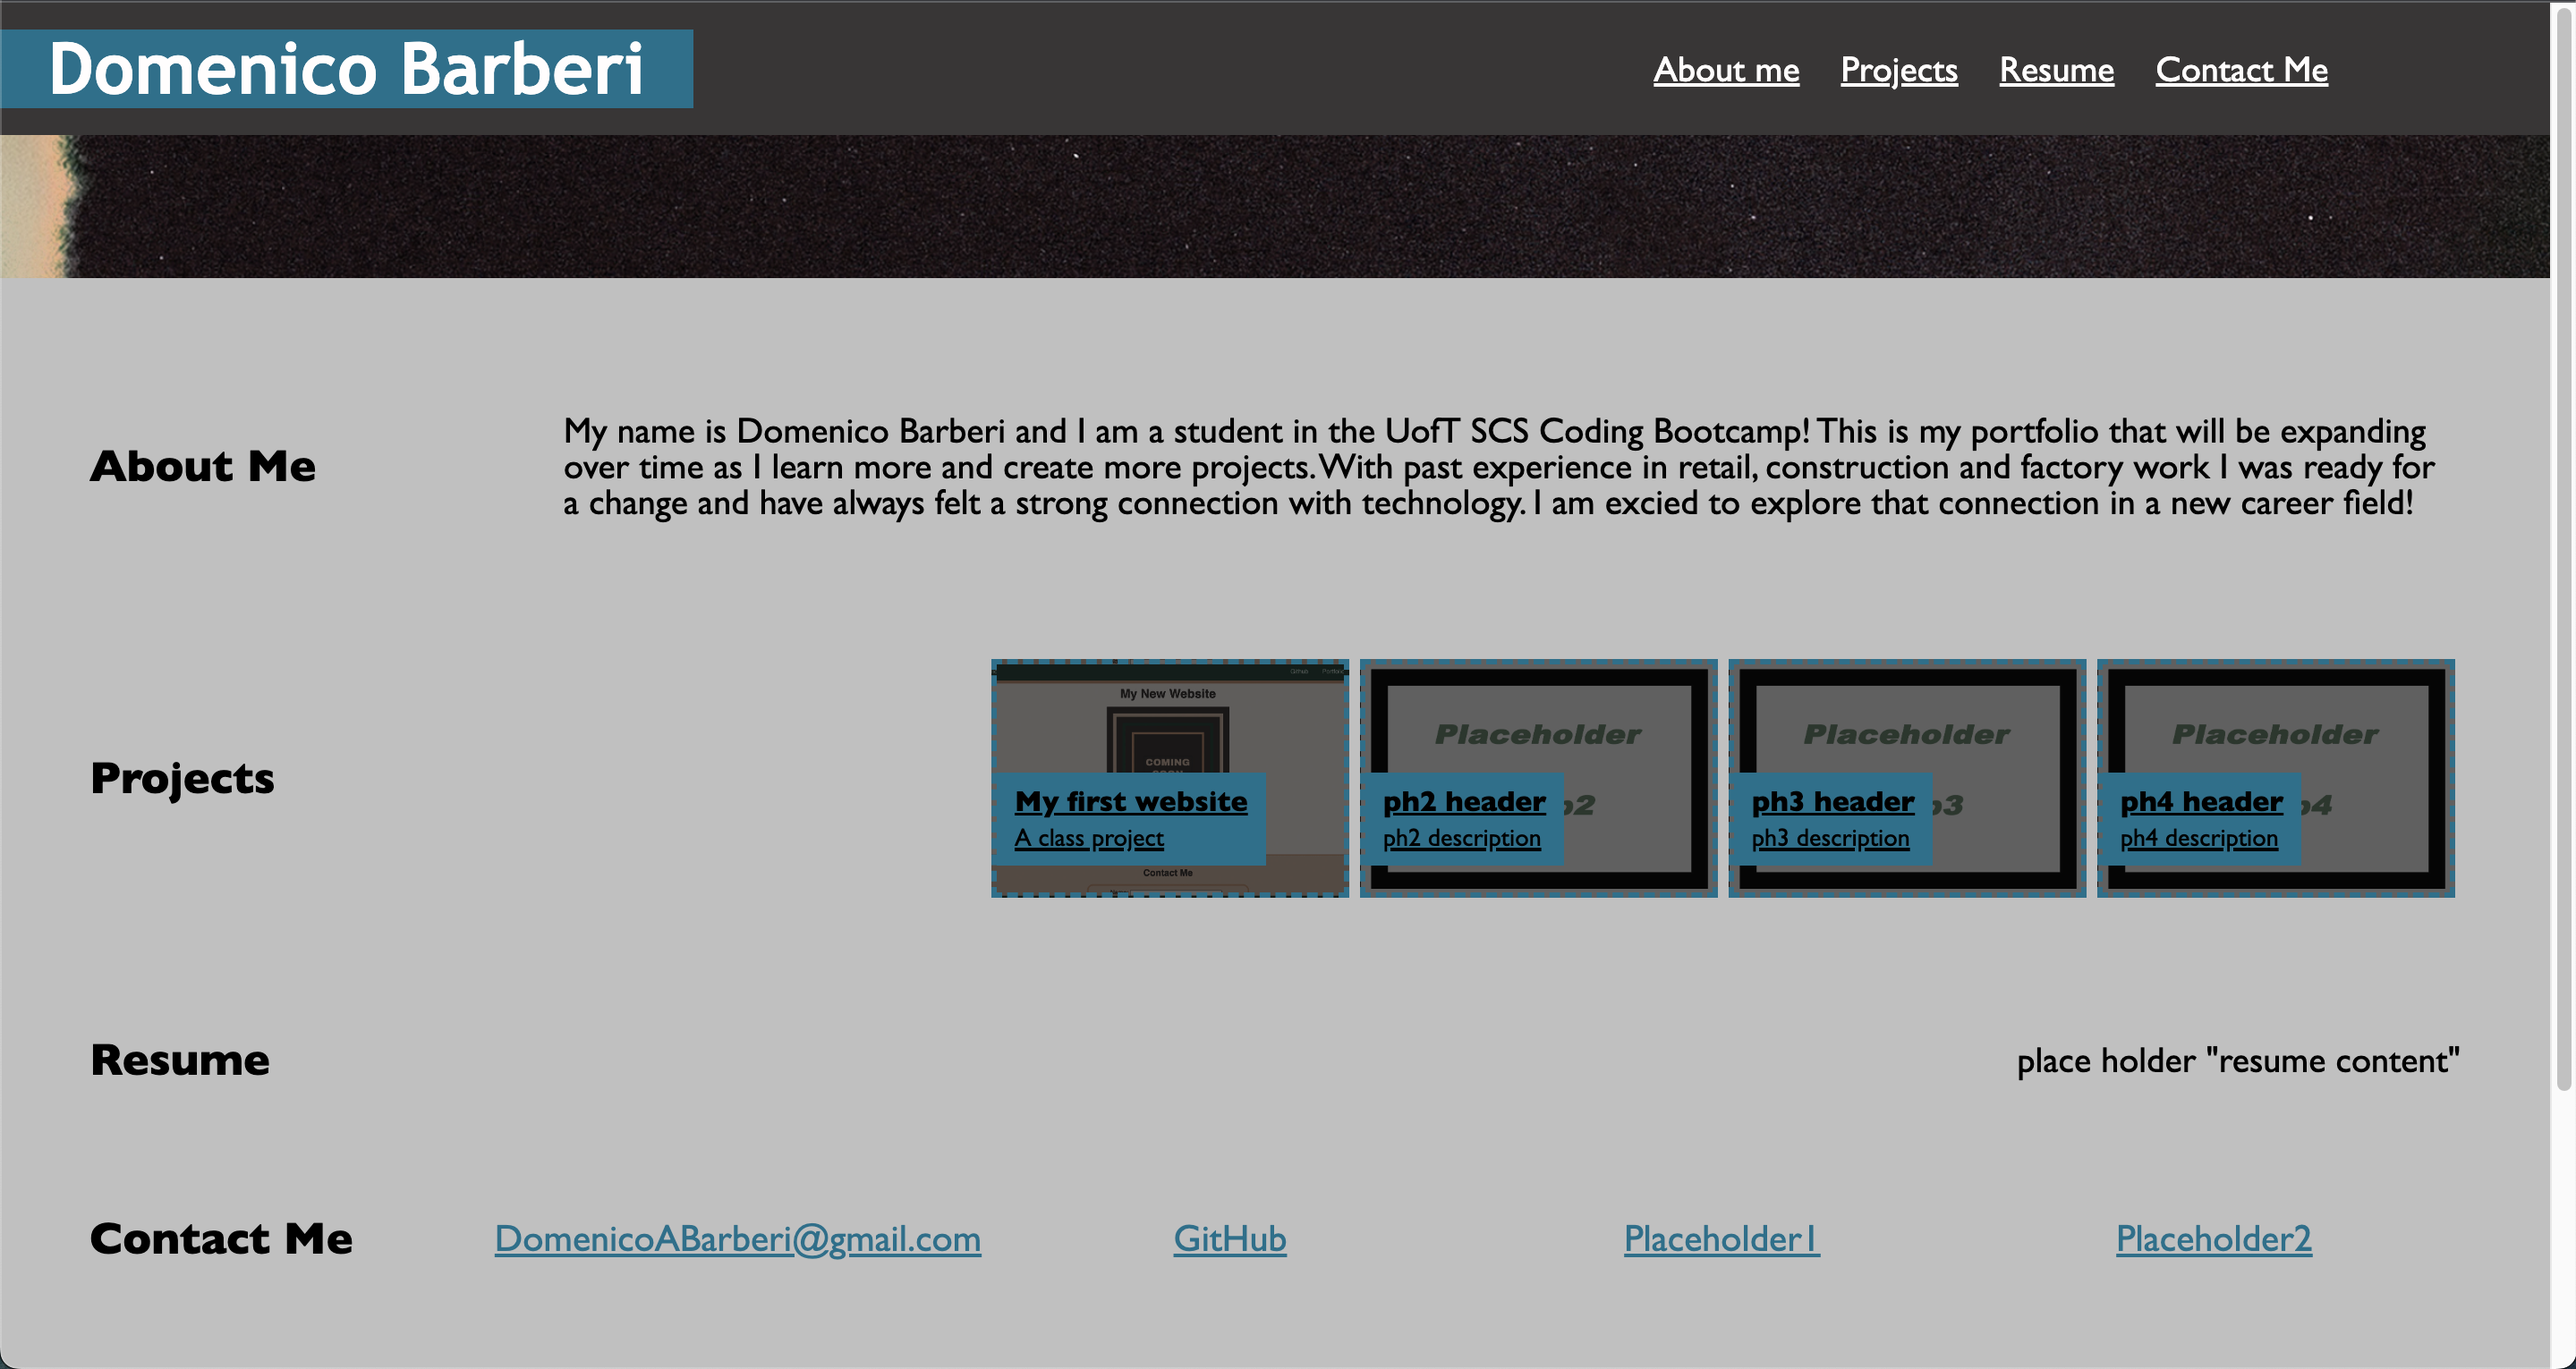
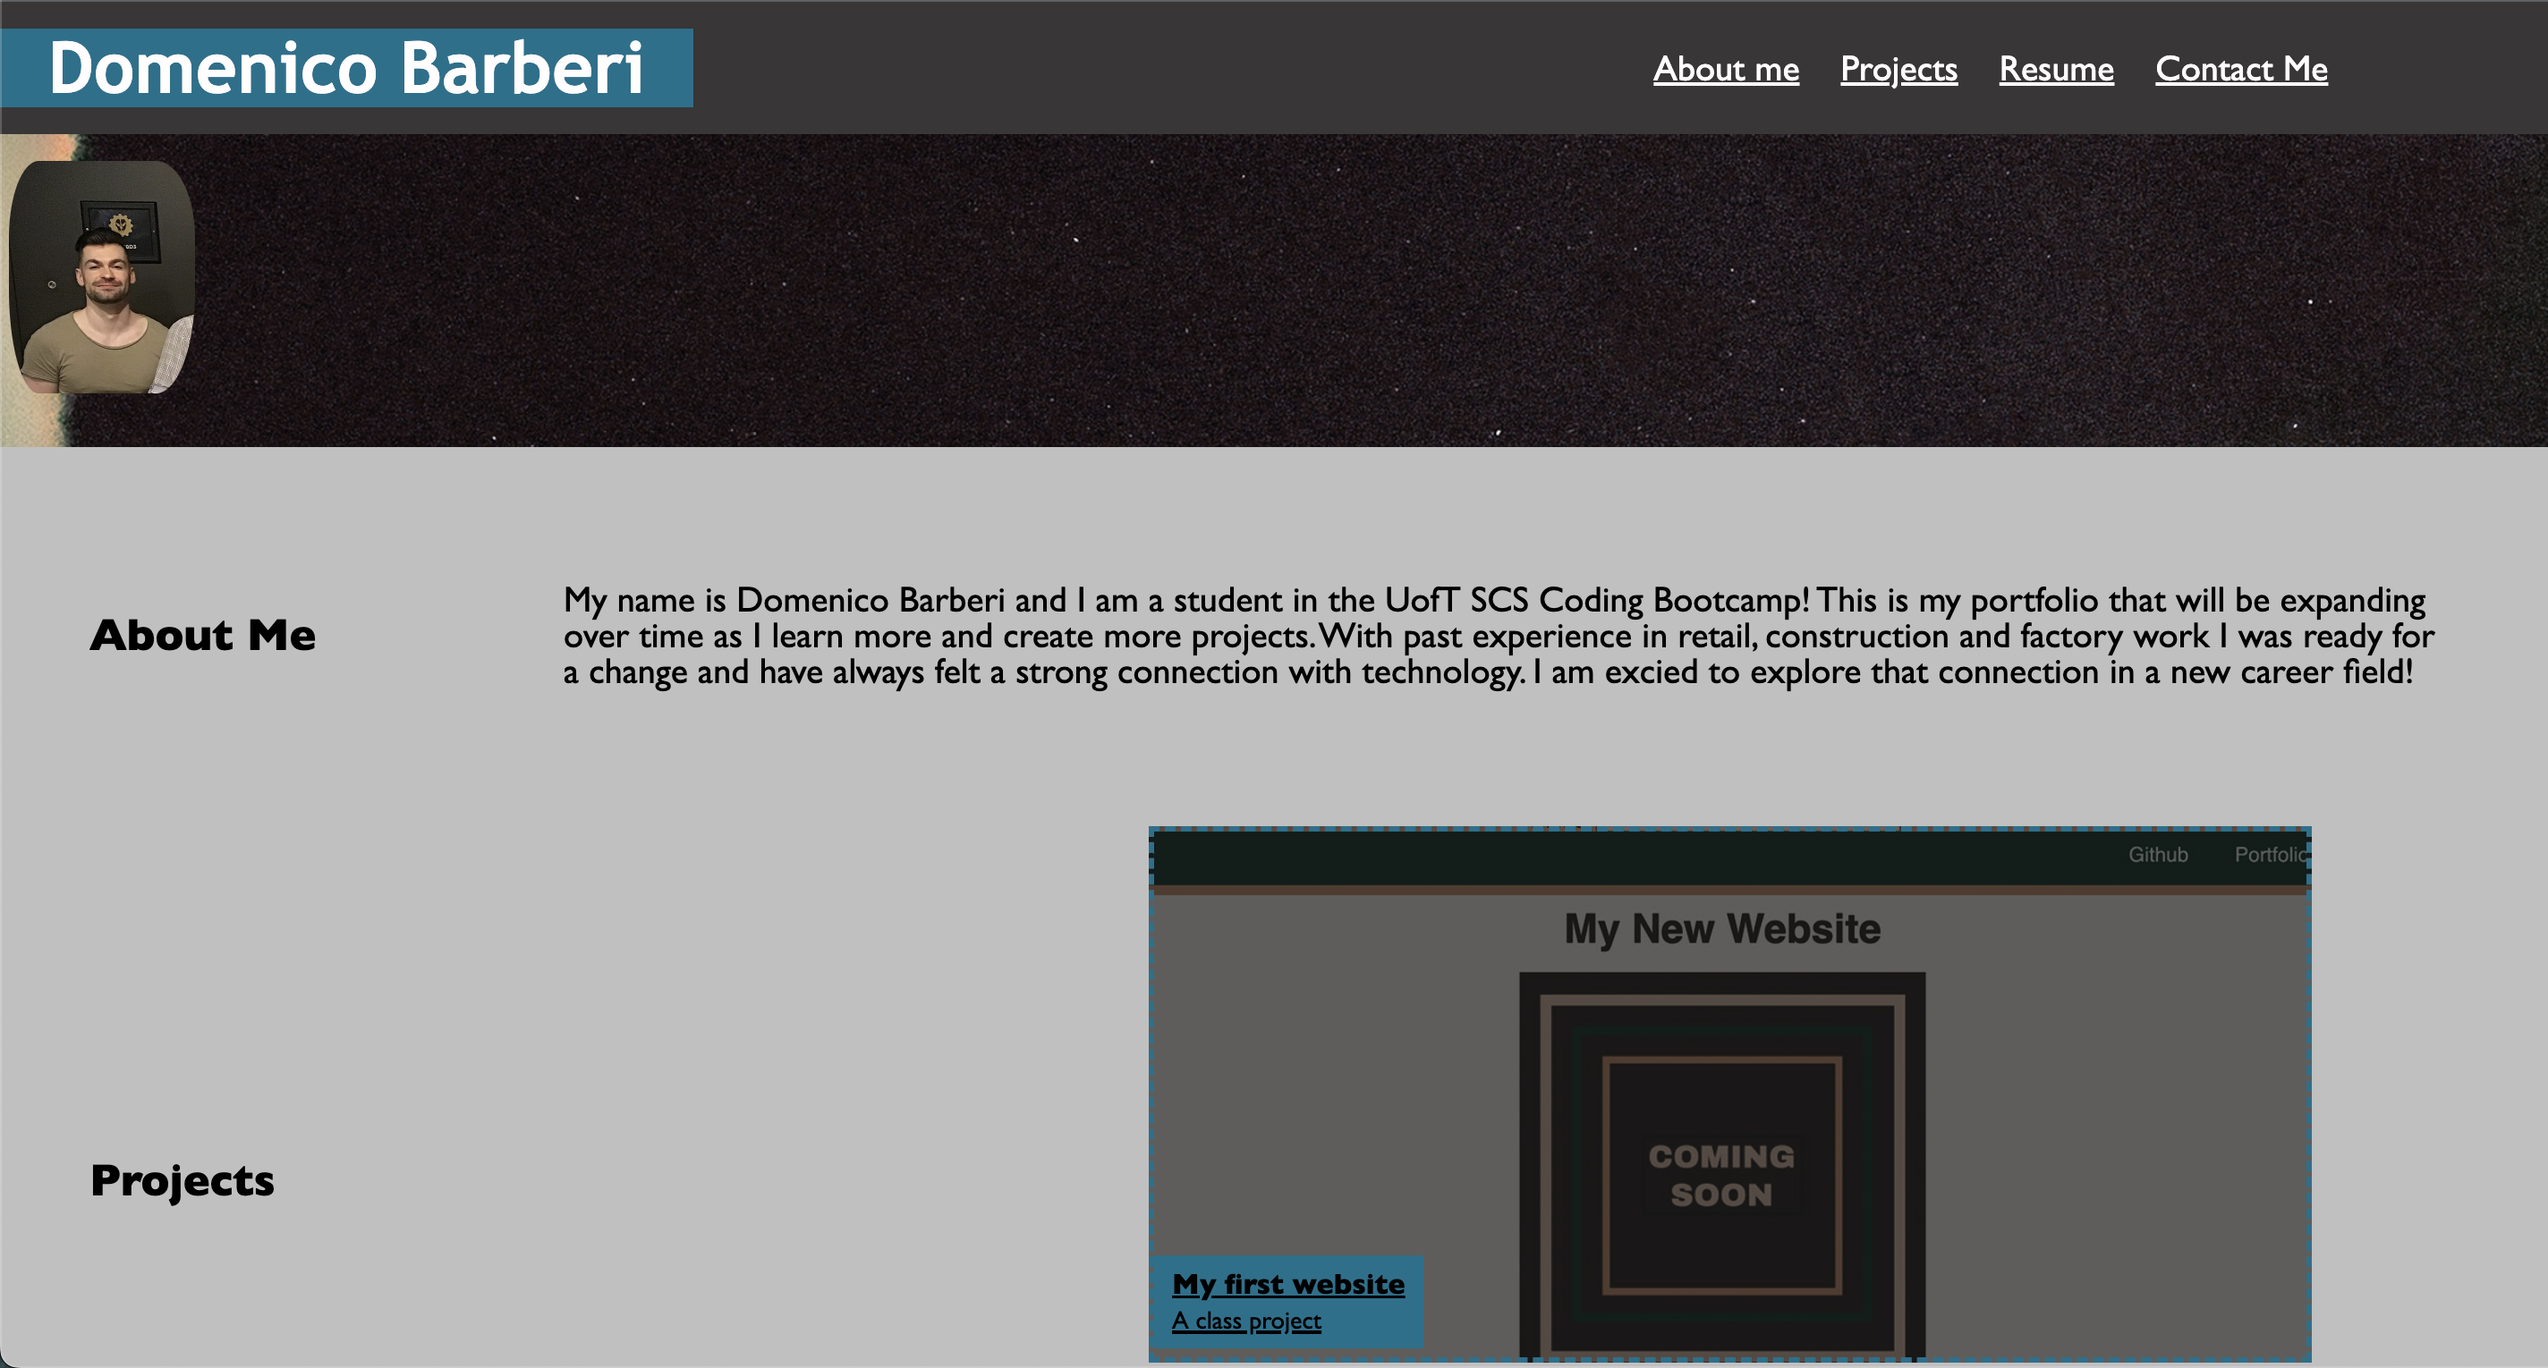
updated readme screenshot again

diff --git a/assets/css/style.css b/assets/css/style.css
@@ -222,7 +222,7 @@ a {
     font-size: 15px;
 }
 
-/* feature first portfolio item */
+/* First portfolio project is largest sized */
 .flex-item:first-child {
     min-width: 200px;
     max-width: 650px;
@@ -416,6 +416,7 @@ a {
     }
 }
 
+/* small screen adjustment of main project sizing */
 @media screen and (max-width: 358px) {
     .flex-item:first-child {
         min-width: 200px;
